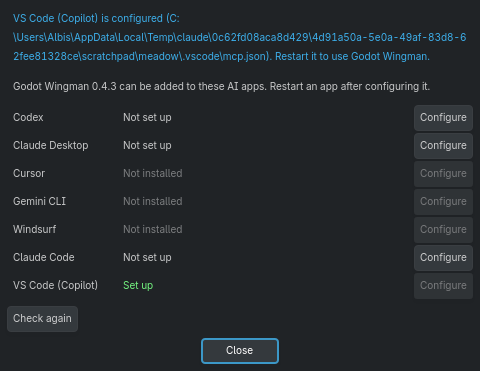
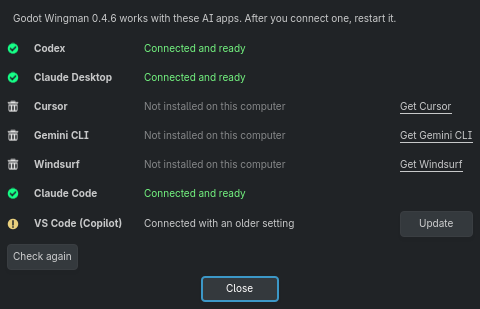
docs: new editor, Changes, Connect AI apps and thumbnail screenshots of the 0.4.6 panel

diff --git a/docs/asset-store/LISTING.md b/docs/asset-store/LISTING.md
@@ -42,8 +42,8 @@ Godot Wingman was built with AI assistance: its code, tests and documentation we
 ## Media
 
 - Thumbnail (16:9, a real screenshot of the editor with the panel): `docs/asset-store/thumbnail.png`
-- Screenshots: `docs/images/editor.png`, `docs/asset-store/connect-ai-apps.png`, `docs/images/level.png`, `docs/images/game-coins.png`, `docs/images/game-double-jump.png`
+- Screenshots: `docs/images/editor.png` (Chat tab), `docs/asset-store/changes.png` (Changes tab), `docs/asset-store/connect-ai-apps.png`, `docs/images/level.png`, `docs/images/game-coins.png`, `docs/images/game-double-jump.png`
 
 ## Versions
 
-For each release: the version number (for example 0.4.4), the zip from that release, minimum Godot version **4.5**, and the release's changelog section from `CHANGELOG.md`.
+For each release: the version number (for example 0.4.6), the zip from that release, minimum Godot version **4.5**, and the release's changelog section from `CHANGELOG.md`.

diff --git a/README.de.md b/README.de.md
@@ -34,7 +34,7 @@
 </p>
 
 <p align="center">
-  <img src="docs/images/editor.png" alt="The Godot editor with the Godot Wingman panel listing the AI's script edits" width="880">
+  <img src="docs/images/editor.png" alt="The Godot editor with the Godot Wingman panel: two connected AIs and a chat with one of them" width="880">
 </p>
 
 <p align="center"><sub>

diff --git a/README.es.md b/README.es.md
@@ -34,7 +34,7 @@
 </p>
 
 <p align="center">
-  <img src="docs/images/editor.png" alt="The Godot editor with the Godot Wingman panel listing the AI's script edits" width="880">
+  <img src="docs/images/editor.png" alt="The Godot editor with the Godot Wingman panel: two connected AIs and a chat with one of them" width="880">
 </p>
 
 <p align="center"><sub>

diff --git a/README.fr.md b/README.fr.md
@@ -34,7 +34,7 @@
 </p>
 
 <p align="center">
-  <img src="docs/images/editor.png" alt="The Godot editor with the Godot Wingman panel listing the AI's script edits" width="880">
+  <img src="docs/images/editor.png" alt="The Godot editor with the Godot Wingman panel: two connected AIs and a chat with one of them" width="880">
 </p>
 
 <p align="center"><sub>

diff --git a/README.ja.md b/README.ja.md
@@ -34,7 +34,7 @@
 </p>
 
 <p align="center">
-  <img src="docs/images/editor.png" alt="The Godot editor with the Godot Wingman panel listing the AI's script edits" width="880">
+  <img src="docs/images/editor.png" alt="The Godot editor with the Godot Wingman panel: two connected AIs and a chat with one of them" width="880">
 </p>
 
 <p align="center"><sub>

diff --git a/README.ko.md b/README.ko.md
@@ -34,7 +34,7 @@
 </p>
 
 <p align="center">
-  <img src="docs/images/editor.png" alt="The Godot editor with the Godot Wingman panel listing the AI's script edits" width="880">
+  <img src="docs/images/editor.png" alt="The Godot editor with the Godot Wingman panel: two connected AIs and a chat with one of them" width="880">
 </p>
 
 <p align="center"><sub>

diff --git a/README.md b/README.md
@@ -39,7 +39,7 @@
 </p>
 
 <p align="center">
-  <img src="docs/images/editor.png" alt="The Godot editor with the Godot Wingman panel listing the AI's script edits" width="880">
+  <img src="docs/images/editor.png" alt="The Godot editor with the Godot Wingman panel: two connected AIs and a chat with one of them" width="880">
 </p>
 
 <p align="center"><sub>

diff --git a/README.pt-BR.md b/README.pt-BR.md
@@ -34,7 +34,7 @@
 </p>
 
 <p align="center">
-  <img src="docs/images/editor.png" alt="The Godot editor with the Godot Wingman panel listing the AI's script edits" width="880">
+  <img src="docs/images/editor.png" alt="The Godot editor with the Godot Wingman panel: two connected AIs and a chat with one of them" width="880">
 </p>
 
 <p align="center"><sub>

diff --git a/README.ru.md b/README.ru.md
@@ -34,7 +34,7 @@
 </p>
 
 <p align="center">
-  <img src="docs/images/editor.png" alt="The Godot editor with the Godot Wingman panel listing the AI's script edits" width="880">
+  <img src="docs/images/editor.png" alt="The Godot editor with the Godot Wingman panel: two connected AIs and a chat with one of them" width="880">
 </p>
 
 <p align="center"><sub>

diff --git a/README.tr.md b/README.tr.md
@@ -34,7 +34,7 @@
 </p>
 
 <p align="center">
-  <img src="docs/images/editor.png" alt="The Godot editor with the Godot Wingman panel listing the AI's script edits" width="880">
+  <img src="docs/images/editor.png" alt="The Godot editor with the Godot Wingman panel: two connected AIs and a chat with one of them" width="880">
 </p>
 
 <p align="center"><sub>

diff --git a/README.zh-CN.md b/README.zh-CN.md
@@ -34,7 +34,7 @@
 </p>
 
 <p align="center">
-  <img src="docs/images/editor.png" alt="The Godot editor with the Godot Wingman panel listing the AI's script edits" width="880">
+  <img src="docs/images/editor.png" alt="The Godot editor with the Godot Wingman panel: two connected AIs and a chat with one of them" width="880">
 </p>
 
 <p align="center"><sub>
